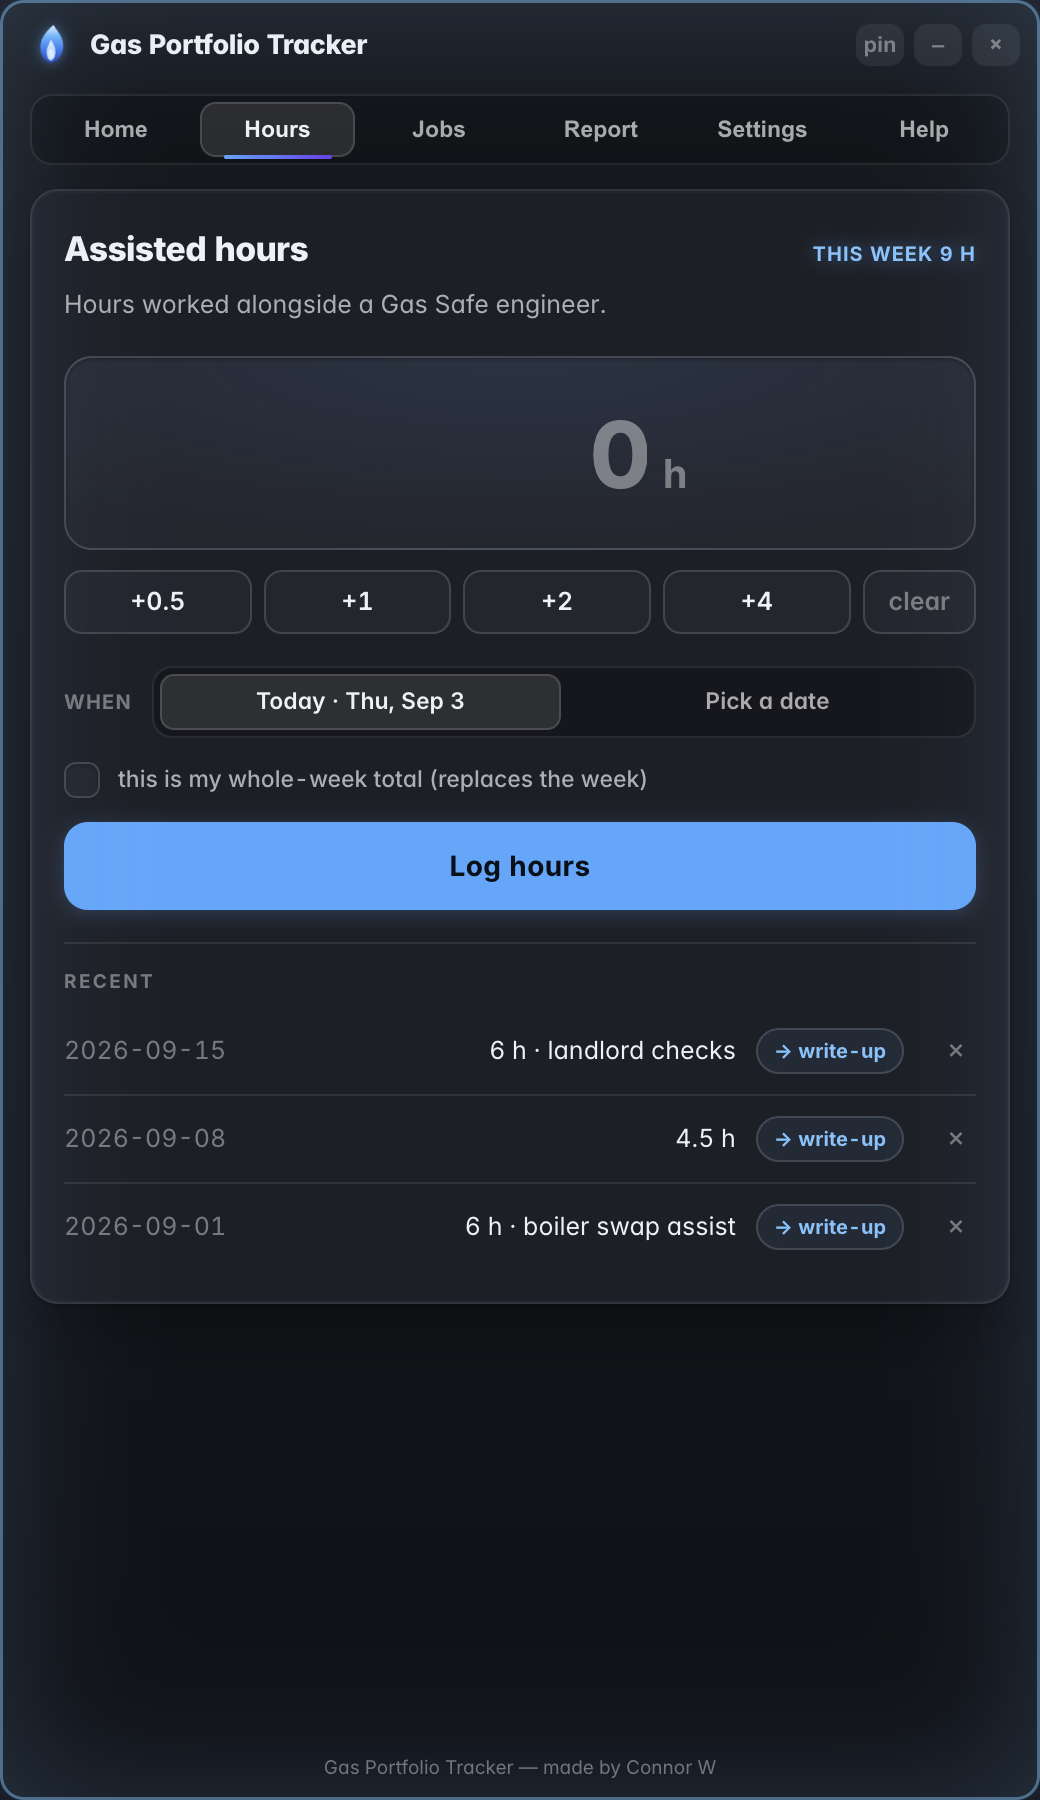
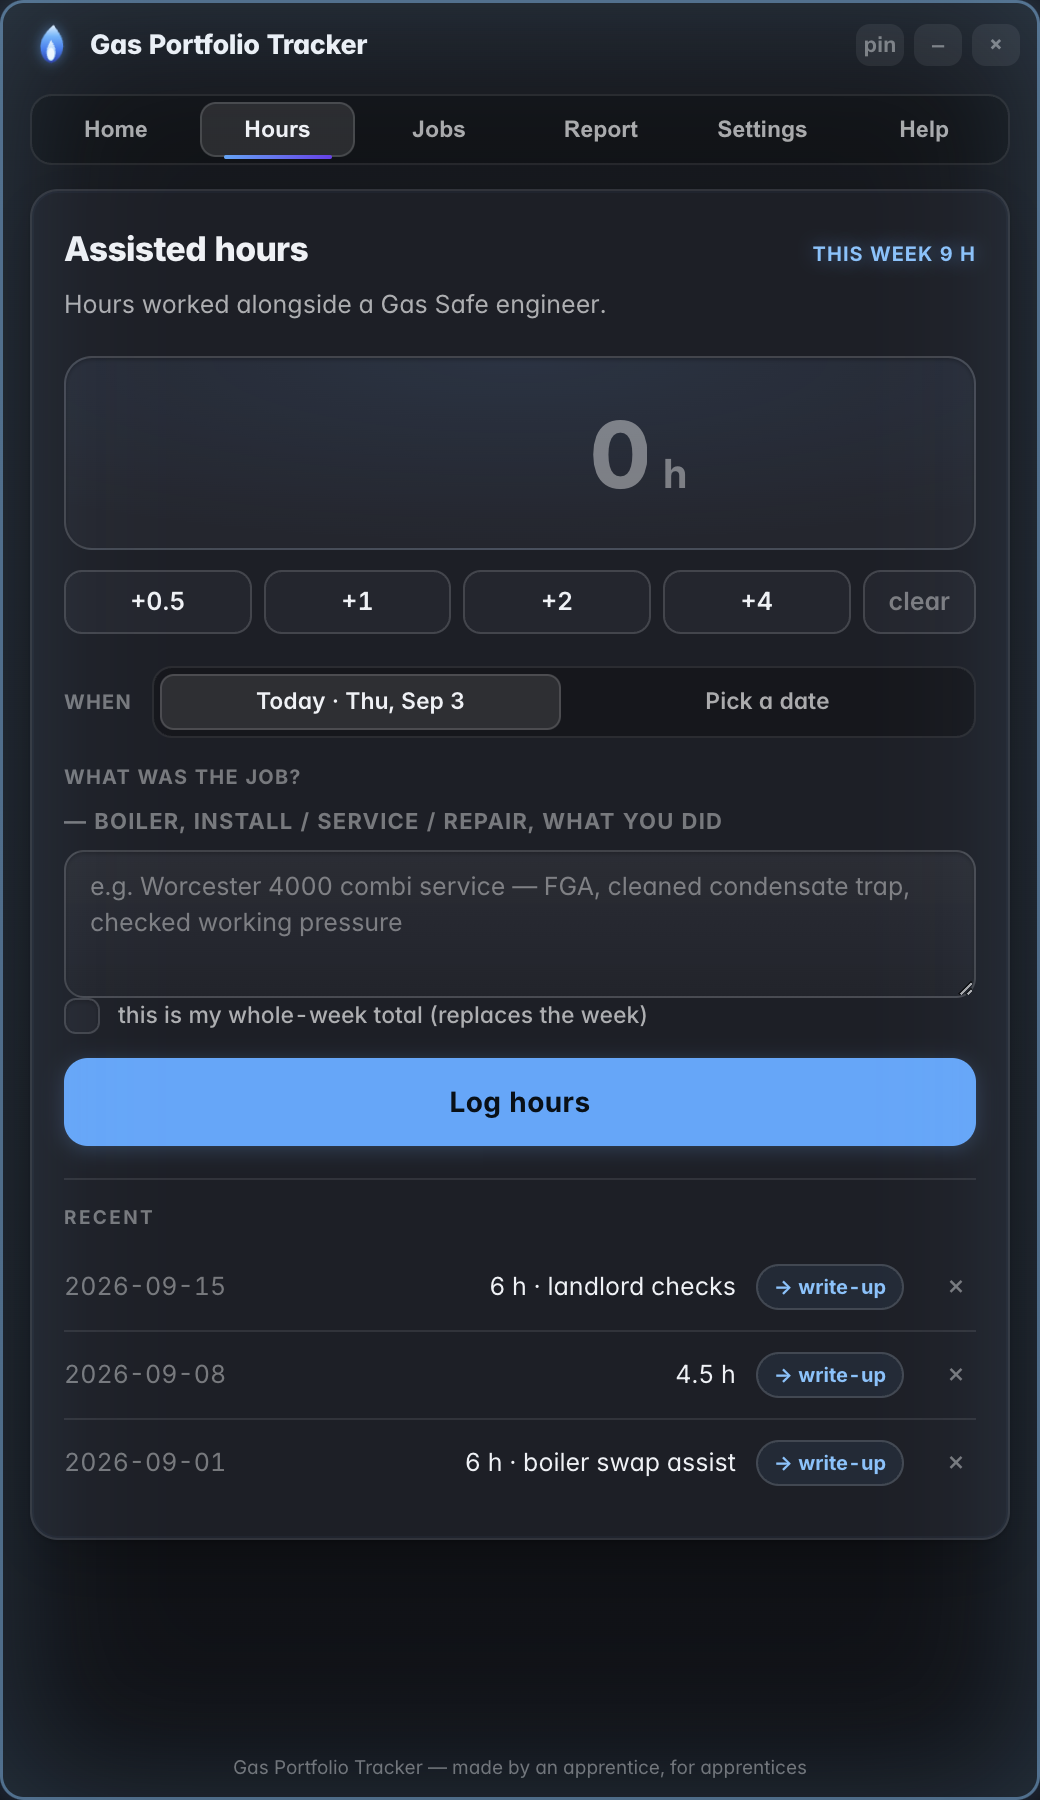
v3.0.0 — full-size resizable window + job notes on assisted & unassisted
- main.js: default 1120x860, minWidth 680 / minHeight 600
- style.css: centre content, cap card width; @media >=900px Home is a 2-col
  dashboard (gauge+tiles | portfolio+writeups), forms get a bit more room
- addHours takes a note again -> "What was the job?" textarea on the Hours pane
- addJob takes notes -> "Job notes" textarea on the write-up form; both shown as
  a second line in Recent
- credit + splash sub: "made by an apprentice, for apprentices"

diff --git a/src/renderer.js b/src/renderer.js
@@ -276,11 +276,12 @@ function setWeekTotal(h) {
 // when set, the next write-up logged replaces this hours[] entry instead of adding fresh hours
 let pendingConvert = null;
 
-function addJob(type, h, boiler, fault, engineer) {
+function addJob(type, h, boiler, fault, engineer, notes) {
   h = Number(h) || 2;
   const row = { date: (pendingConvert && pendingConvert.date) || todayISO(), type, h, boiler: boiler || "" };
   if (type === "repair" && fault) row.fault = fault;
   if (engineer) row.engineer = engineer;
+  if (notes && notes.trim()) row.notes = notes.trim();
   data.jobs.push(row);
   if (pendingConvert) {
     if (Array.isArray(data.hours) && data.hours[pendingConvert.i]) data.hours.splice(pendingConvert.i, 1);
@@ -537,6 +538,8 @@ function hoursPane(s) {
     </div>
     <input type="date" id="ad" value="${today}" max="${today}" hidden>
 
+    <label class="wide ta">What was the job? <span class="dim sm">&mdash; boiler, install / service / repair, what you did</span>
+      <textarea id="ahnote" rows="2" placeholder="e.g. Worcester 4000 combi service &mdash; FGA, cleaned condensate trap, checked working pressure"></textarea></label>
     <label class="chk"><input type="checkbox" id="awk"> this is my whole-week total (replaces the week)</label>
     <button class="btn big" id="ahlog">Log hours</button>
 
@@ -561,8 +564,9 @@ function writeupsPane(s) {
   const recent = data.jobs.map((r, i) => ({ r, i })).slice(-10).reverse().map(({ r, i }) => {
     const bits = [r.type, r.boiler, r.fault].filter(Boolean).map(cap1).join(" / ");
     const eng = r.engineer ? ` &middot; ${esc(r.engineer)}` : "";
-    return `<li><span class="li-d">${esc(r.date)}</span><span class="li-v">${esc(bits)} &middot; ${r.h} h${eng}</span>` +
-      `<button class="del" data-arr="jobs" data-i="${i}" title="delete">&times;</button></li>`;
+    const note = r.notes ? `<span class="li-note">${esc(r.notes)}</span>` : "";
+    return `<li class="li-wrap"><span class="li-d">${esc(r.date)}</span><span class="li-v">${esc(bits)} &middot; ${r.h} h${eng}</span>` +
+      `<button class="del" data-arr="jobs" data-i="${i}" title="delete">&times;</button>${note}</li>`;
   }).join("");
   const engOpts = (data.engineers || []).map((e) => `<option value="${esc(e.name)}">${esc(e.name)}</option>`).join("");
   const pc = pendingConvert;
@@ -582,8 +586,10 @@ function writeupsPane(s) {
     </div>
     <label class="wide">Supervised by ${engOpts ? "" : `<span class="dim sm">(add engineers in Settings)</span>`}
       <select id="jeng"><option value="">&mdash;</option>${engOpts}</select></label>
+    <label class="wide ta">Job notes <span class="dim sm">&mdash; boiler make/model, what you did, any readings</span>
+      <textarea id="jnotes" rows="3" placeholder="e.g. Worcester 4000, full combi swap. Gas rate 2.9 m3/h. Working pressure 20 mbar. Tightness test passed."></textarea></label>
     <button class="btn" id="jlog">Log write-up</button>
-    <p class="dim sm">Tapping a tile logs one straight away using the dropdowns. Fault only counts on repairs.</p>
+    <p class="dim sm">Tapping a tile logs one straight away using the dropdowns. Fault only counts on repairs. Notes go on your PDF.</p>
     <div class="listwrap">
       <div class="list-h">Recent</div>
       <ul class="list">${recent || '<li class="empty">nothing logged yet</li>'}</ul>
@@ -826,9 +832,10 @@ function wire(s) {
         ? (v > 0 ? `Set week to ${r1(v)} h` : "Set week total")
         : (v > 0 ? `Log ${r1(v)} h` : "Log hours");
     };
+    const noteEl = document.getElementById("ahnote");
     const go = () => {
       if (wk.checked) setWeekTotal(h.value);
-      else addHours(h.value, dateEl.value);
+      else addHours(h.value, dateEl.value, noteEl && noteEl.value);
     };
     app.querySelectorAll("[data-add]").forEach((b) => b.addEventListener("click", () => {
       if (b.dataset.add === "clear") h.value = "";
@@ -876,12 +883,13 @@ function wire(s) {
     jt.addEventListener("change", syncFault);
     syncFault();
     const je = document.getElementById("jeng");
+    const jn = document.getElementById("jnotes");
     document.querySelectorAll(".tile").forEach((el) =>
       el.addEventListener("click", () => {
         const type = el.dataset.type;
-        addJob(type, Number(jh.value) || 2, jb.value, type === "repair" ? jf.value : undefined, je && je.value);
+        addJob(type, Number(jh.value) || 2, jb.value, type === "repair" ? jf.value : undefined, je && je.value, jn && jn.value);
       }));
-    const go = () => addJob(jt.value, jh.value, jb.value, jt.value === "repair" ? jf.value : undefined, je && je.value);
+    const go = () => addJob(jt.value, jh.value, jb.value, jt.value === "repair" ? jf.value : undefined, je && je.value, jn && jn.value);
     document.getElementById("jlog").onclick = go;
     jh.addEventListener("keydown", (e) => { if (e.key === "Enter") go(); });
   }

diff --git a/src/style.css b/src/style.css
@@ -1070,3 +1070,51 @@ label.wide textarea { text-transform: none; letter-spacing: 0; font-weight: 500;
 .help details { border-color: var(--line); padding: 11px 0 6px; }
 .help summary { font-size: 12.5px; }
 .help summary::marker { content: ""; }
+
+/* ============================================================
+   v3 — full-size window: centre the content, use the width
+   ============================================================ */
+main { align-items: center; }
+main > .tabs { width: 100%; max-width: 1000px; }
+main > .card { width: 100%; max-width: 660px; }
+main > .card.dash.home { max-width: 1000px; }
+.credit { max-width: 1000px; margin: 0 auto; }
+
+@media (min-width: 900px) {
+  main { padding: 8px 26px 26px; gap: 16px; }
+
+  /* Home becomes a two-column dashboard */
+  main > .card.dash.home {
+    display: grid;
+    grid-template-columns: 350px minmax(0, 1fr);
+    gap: 20px 28px;
+    align-items: start;
+    padding: 22px 24px;
+  }
+  .home .hero    { grid-column: 1; grid-row: 1; }
+  .home .hgrid   { grid-column: 1; grid-row: 2; grid-template-columns: 1fr 1fr; margin-top: 4px; }
+  .home .pstrip  { grid-column: 2; grid-row: 1; margin-top: 0; align-self: start; }
+  .home .hsec    { grid-column: 2; grid-row: 2; margin-top: 14px; align-self: start; }
+  .home .hrow    { grid-column: 2; grid-row: 3; margin-top: 4px; align-self: start; }
+  .home .qrow    { grid-column: 1 / -1; grid-row: 4; margin-top: 8px; }
+  .home .gaugewrap { max-width: 250px; }
+  .home .hsec .jline { grid-template-columns: 74px minmax(0, 300px) 34px; }
+  .home .pstrip { padding: 16px 18px; }
+
+  /* forms get a little more room but don't sprawl */
+  .form2, .form3, .sgrid { grid-template-columns: 1fr 1fr; }
+  .bighours { padding: 22px 20px; }
+  .bighours input { font-size: 52px; }
+}
+
+@media (min-width: 1180px) {
+  main > .card.dash.home { grid-template-columns: 380px minmax(0, 1fr); max-width: 1120px; }
+}
+
+/* job notes on entries */
+label.wide.ta textarea { min-height: 58px; font-family: inherit; font-size: 12.5px; line-height: 1.45; }
+.list li.li-wrap { flex-wrap: wrap; }
+.list .li-note {
+  flex-basis: 100%; margin-top: 4px; font-size: 11.5px; color: var(--ink-2);
+  line-height: 1.4; padding-left: 2px;
+}

diff --git a/src/index.html b/src/index.html
@@ -40,7 +40,7 @@
         <div class="splash-tag">know if you&rsquo;ll hit the deadline<span class="splash-shine"></span></div>
       </div>
     </div>
-    <div class="splash-sub">made by Connor&nbsp;W</div>
+    <div class="splash-sub">by an apprentice, for apprentices</div>
   </div>
 
   <header class="titlebar">
@@ -58,7 +58,7 @@
 
   <div id="update" class="update" hidden></div>
   <main id="app"></main>
-  <footer class="credit">Gas Portfolio Tracker — made by Connor W</footer>
+  <footer class="credit">Gas Portfolio Tracker &mdash; made by an apprentice, for apprentices</footer>
 
   <script src="logic.js"></script>
   <script src="gauge.js"></script>

diff --git a/electron/main.js b/electron/main.js
@@ -24,7 +24,7 @@ function loadBounds() {
     const b = JSON.parse(fs.readFileSync(BOUNDS_FILE, "utf8"));
     if (b && b.width > 300 && b.height > 380) return b;
   } catch {}
-  return { width: 520, height: 880 };
+  return { width: 1120, height: 860 };
 }
 
 const STATE_FILE = path.join(app.getPath("userData"), "ui-state.json");
@@ -289,8 +289,8 @@ function createWindow(opts = {}) {
     height: b.height,
     x: b.x,
     y: b.y,
-    minWidth: 400,
-    minHeight: 560,
+    minWidth: 680,
+    minHeight: 600,
     resizable: true,
     show: opts.show !== false,
     frame: false,

diff --git a/CHANGELOG.md b/CHANGELOG.md
@@ -1,5 +1,16 @@
 # Changelog
 
+## 3.0.0 — full-size window, job notes, an apprentice's app
+
+- **Opens as a real desktop window** (1120x860, min 680x600, resizable). On a
+  wide window Home becomes a two-column dashboard; the other pages stay a
+  comfortable centred width.
+- **Job notes on every entry.** Assisted hours get a "What was the job?" field
+  (boiler, install/service/repair, what you did); write-ups get a notes box for
+  the boiler make/model, what you did and any readings. Notes show in the Recent
+  list and go on your PDF.
+- Tagline: **made by an apprentice, for apprentices.**
+
 ## 2.5.0 — the other tabs, brought up to Home's finish
 
 Hours, Jobs, Report, Settings and Help now share the Home page's language:
